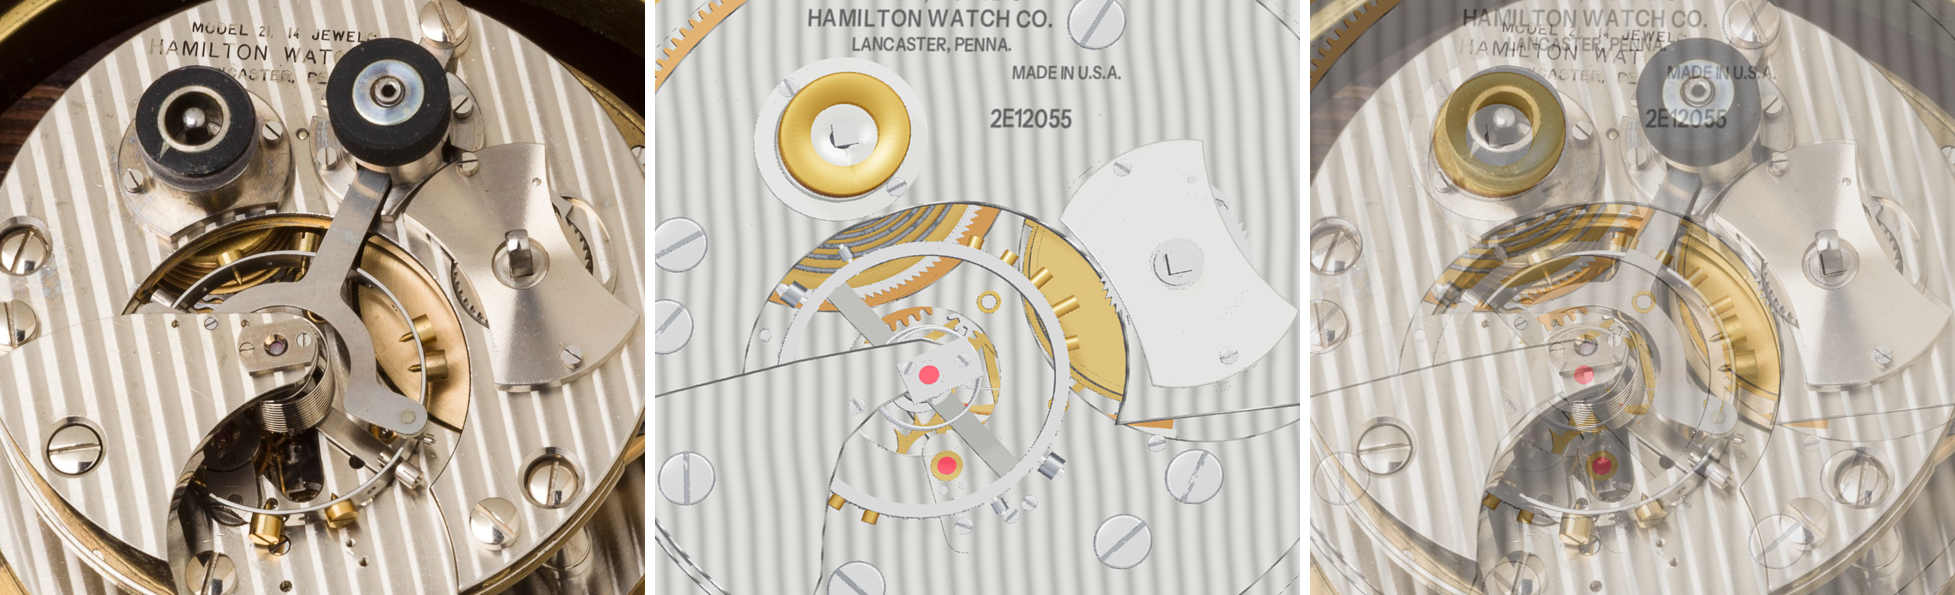
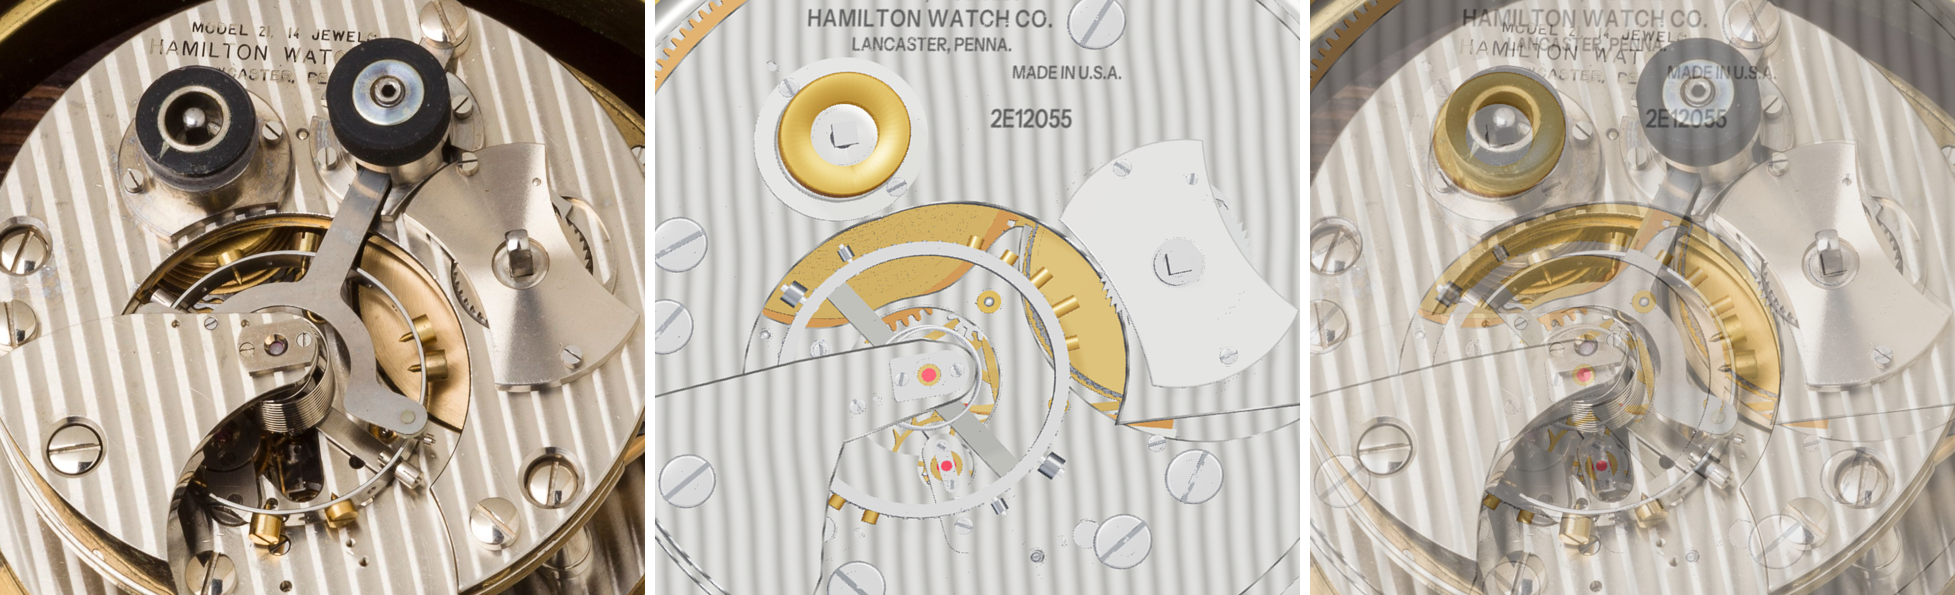
Mounting ring screws from the train side, as reassembly Op. 1 and Fig. 29 have them
The three mounting ring screws (42055) were drawn from the dial side, through
the ring's lip into the plate. The manual lays the pillar plate on the mounting
ring and then screws them in (reassembly Op. 1), and Fig. 29 draws them above
the plate; the top-view photographs show one on the plate at the rim at 6
o'clock, half under the train bridge. Now 42055-size screws on the plate's top
at 40.6 mm (100 deg as photographed; 210 and 340 deg estimated, clear of the
dial screws), through a clearance hole in the plate into a tab of the lip.
bom.json's relations follow. IDEAS.md: the wind indicator wheel's size is held
by its centre distance to the fusee arbor; the photographs' larger wheel is
perspective.

diff --git a/chronometer-working-model.html b/chronometer-working-model.html
@@ -1624,9 +1624,9 @@ function buildMovement(M){
   /* ---------- screw positions (x, z), worked out before the plates are cut: a clearance hole where a screw passes through a part (hC), a tapped hole where it holds (hT).
        42055 (pillar, bridge and mounting-ring screws) have heads r 2.9; ESCAP: the endstone caps' screws (20762) ---------- */
   const add=(a,b,k=1)=>[a[0]+b[0]*k,a[1]+b[1]*k],sub=(a,b)=>[a[0]-b[0],a[1]-b[1]],unit=a=>{const l=Math.hypot(...a);return[a[0]/l,a[1]/l];},ry=(a,[x,z])=>[x*Math.cos(a)+z*Math.sin(a),-x*Math.sin(a)+z*Math.cos(a)];
-  const eu=unit(sub(L.E,L.B)),lbu=unit(sub(L.F,L.B)),lbn=[-lbu[1],lbu[0]],LBm=add(L.B,sub(L.F,L.B),0.9),ESCAP=0.45,PSR=2.9,RSR=1.8;   /* RSR: the mounting ring's screws, on its narrow lip */
+  const eu=unit(sub(L.E,L.B)),lbu=unit(sub(L.F,L.B)),lbn=[-lbu[1],lbu[0]],LBm=add(L.B,sub(L.F,L.B),0.9),ESCAP=0.45,PSR=2.9;
   const S={ltb:[0.35,0.65].map(f=>add(L.T,sub(L.F,L.T),f)),pil:[...PILLARS.train,PILLARS.barrel],tb:[PILLARS.train[0],PILLARS.train[1],[-8.5,27.7]],bb:[PILLARS.barrel,PILLARS.train[2],[29.24,-12.28]],
-    ring:[90,210,330].map(a=>[42.0*Math.cos(a*D2R),42.0*Math.sin(a*D2R)]),eb:[4.3,6.6].map(f=>add(L.E,eu,f)),ebc:[2.1,-2.1].map(f=>add(L.E,eu,f)),elc:[2.1,-2.1].map(f=>add(L.E,eu,f)),
+    ring:[100,210,340].map(a=>[40.6*Math.cos(a*D2R),40.6*Math.sin(a*D2R)]),eb:[4.3,6.6].map(f=>add(L.E,eu,f)),ebc:[2.1,-2.1].map(f=>add(L.E,eu,f)),elc:[2.1,-2.1].map(f=>add(L.E,eu,f)),
     lb:[[20.5,20.0],[-5.3,26.2]],lbp:[[16.9,21.3],[-2.6,26.4]],blc:[1.9,-1.9].map(f=>add(L.B,lbu,f)),blk:(q=>add(L.B,ry(BETA,[q.x*ES,q.y*ES])))(ESC.D(-1.2,-0.35)),cock:[33.11,12.62]};   /* cock screw: 0.3 mm off its traced position (within the tracing's 0.4 mm), so its thread clears the foot's edge */
   /* lb: the balance lower bridge's screws (42055), put in from below through its upper tier into the train bridge: at the arm's end on the 3 o'clock side (outside every wheel, over the
      access hole in the pillar plate) and beside the train-blocking screw; lbp: its steady pins (tools/lower_bridge.py) */
@@ -1646,15 +1646,21 @@ function buildMovement(M){
      (manual Sec. VIII, Op. 15 note) clear of the centre wheel, the chain and the opening round the balance */
   const SPv=[L.Fu[0]+21.35*Math.cos(60*D2R),L.Fu[1]+21.35*Math.sin(60*D2R)];
   R.pillarPlate=mesh(pp,discGeo(PP_R,PP_T,[[...L.C,1.5],[...L.T,0.8],[...L.F,1.2],[...L.Fu,1.4],hC(...L.Ud,0.8),hC(...L.Mw,0.8),[...L.Ba,1.9],[...L.E,1.3],[...SPv,0.52],
-    ...S.ltb.map(q=>hT(...q,1.4)),...S.pil.map(q=>hC(...q,PSR)),...S.ring.map(q=>hT(...q,RSR)),...S.elc.map(q=>hT(...q,ESCAP)),...S.dial.map(q=>hC(...q,1.0)),[...S.lb[0],3.4]]),M.plate,0,y0,0);hn(pp,'42060');   /* the plate's parts-list line on its part, so its pins go with it */
+    ...S.ltb.map(q=>hT(...q,1.4)),...S.pil.map(q=>hC(...q,PSR)),...S.ring.map(q=>hC(...q,PSR)),...S.elc.map(q=>hT(...q,ESCAP)),...S.dial.map(q=>hC(...q,1.0)),[...S.lb[0],3.4]]),M.plate,0,y0,0);hn(pp,'42060');   /* the plate's parts-list line on its part, so its pins go with it */
   /* the last hole: access to the balance lower bridge's screw at 3 o'clock, for taking the bridge off without taking the movement down (RMG No. 4E019), under the dial */
   /* lower bushings and settings in the pillar plate (parts list, Fig. 110): centre, fusee, barrel; escape lower jewel. Proud 0.1 on the train side */
   const bushR=(p,x,z,y1,y2,ro,ri,mat)=>mesh(p,ringGeo(ro,ri,Math.abs(y2-y1)),mat||M.brass2,x,(y1+y2)/2,z);
   hn(bushR(pp,...L.C,y0-0.1,0,1.5,0.52),'42165');hn(bushR(pp,...L.Fu,y0-0.1,0,1.4,0.58),'42164.fl');hn(bushR(pp,...L.Ba,y0-0.1,0,1.9,1.43),'42164.bl');hn(bushR(pp,...L.E,y0-0.1,0,1.3,0.95,M.gilt),'42162.el');hn(mesh(pp,stoneGeo(0.95,0.22,0.5,'olive'),M.ruby,L.E[0],-0.25,L.E[1]),'J.el');   /* escape lower setting (42162) with its olive-hole jewel, flush with the plate's dial face under the endstone */
-  /* mounting ring (42057, Fig. 110) round the plate's edge, with a lip under its dial side held by three screws (42055) from the dial side; section and screw positions estimated. It starts 0.02 outside the plate's edge, clear of the plate's polygon (at PP_R-0.1 the plate's edge ran inside it and showed in a section as a hollow) */
-  R.flange=hn(mesh(pp,new THREE.LatheGeometry([V2(PP_R+0.02,y0),V2(47,y0),V2(47,-0.01),V2(PP_R+0.02,-0.01),V2(PP_R+0.02,y0)],160),M.plate),'42057');hn(mesh(pp,discGeo(47,1.0,[[0,0,40.2],...S.ring.map(q=>hC(...q,RSR))]),M.plate,0,0.01,0),'42057',{sub:1});
+  /* mounting ring (42057, Fig. 110) round the plate's edge, with a lip under its dial side. Three screws (42055) hold the plate to it from the train side: the plate is laid
+     on the ring and the screws put in (reassembly Op. 1; Fig. 29 draws them above the plate), and the top-view photographs show one on the plate at the rim at 6 o'clock,
+     half under the train bridge; the others under the bridges, at 210 and 340 deg, estimated. The lip has a tab inward under each, tapped for it, clear of the dial feet.
+     Section and tabs estimated. It starts 0.02 outside the plate's edge, clear of the plate's polygon (at PP_R-0.1 the plate's edge ran inside it and showed in a section as a hollow) */
+  R.flange=hn(mesh(pp,new THREE.LatheGeometry([V2(PP_R+0.02,y0),V2(47,y0),V2(47,-0.01),V2(PP_R+0.02,-0.01),V2(PP_R+0.02,y0)],160),M.plate),'42057');
+  { const RA=[100,210,340].map(a=>a*D2R),dA=a=>Math.min(...RA.map(b=>Math.abs(Math.atan2(Math.sin(a-b),Math.cos(a-b))))),rin=a=>{const t=clamp((dA(a)-0.07)/0.05,0,1);return lerp(38.4,40.2,smooth(t));};
+    const inner=[...Array(360).keys()].map(k=>{const a=k/360*TAU;return[rin(a)*Math.cos(a),rin(a)*Math.sin(a)];}),outer=[...Array(160).keys()].map(k=>{const a=k/160*TAU;return[47*Math.cos(a),47*Math.sin(a)];});
+    hn(mesh(pp,polyGeo(outer,1.0,[{pts:inner},...S.ring.map(q=>hT(...q,PSR))]),M.plate,0,0.01,0),'42057',{sub:1}); }   /* the lip, with its tabs */
+  for(const q of S.ring)hn(screw(pp,...q,y0,PSR,1.6,PP_T+0.95),'42055.ring');   /* through the plate into the lip's tab */
   { const rg=new THREE.Group();rg.rotation.x=Math.PI;pp.add(rg);
-    for(const q of S.ring)hn(screw(rg,q[0],-q[1],-1.01,RSR,1.2,1.01+3.86-0.4),'42055.ring');   /* through the lip and into the plate */
     /* the pillars' screws (42055) from the dial side, through the plate into the pillars (Fig. 110) */
     S.pil.forEach((q,i)=>hn(screw(rg,q[0],-q[1],0,PSR,1.6,3.86+3.2),i<3?'42055.pil':'42055.pilb'));
     /* escape lower endstone cap (42159) with its jewel and two screws (20762), on the dial side over the escape lower setting (Fig. 110) */

diff --git a/marine-chronometer-source/chronometer-working-model/dist/chronometer-working-model.html b/marine-chronometer-source/chronometer-working-model/dist/chronometer-working-model.html
@@ -1624,9 +1624,9 @@ function buildMovement(M){
   /* ---------- screw positions (x, z), worked out before the plates are cut: a clearance hole where a screw passes through a part (hC), a tapped hole where it holds (hT).
        42055 (pillar, bridge and mounting-ring screws) have heads r 2.9; ESCAP: the endstone caps' screws (20762) ---------- */
   const add=(a,b,k=1)=>[a[0]+b[0]*k,a[1]+b[1]*k],sub=(a,b)=>[a[0]-b[0],a[1]-b[1]],unit=a=>{const l=Math.hypot(...a);return[a[0]/l,a[1]/l];},ry=(a,[x,z])=>[x*Math.cos(a)+z*Math.sin(a),-x*Math.sin(a)+z*Math.cos(a)];
-  const eu=unit(sub(L.E,L.B)),lbu=unit(sub(L.F,L.B)),lbn=[-lbu[1],lbu[0]],LBm=add(L.B,sub(L.F,L.B),0.9),ESCAP=0.45,PSR=2.9,RSR=1.8;   /* RSR: the mounting ring's screws, on its narrow lip */
+  const eu=unit(sub(L.E,L.B)),lbu=unit(sub(L.F,L.B)),lbn=[-lbu[1],lbu[0]],LBm=add(L.B,sub(L.F,L.B),0.9),ESCAP=0.45,PSR=2.9;
   const S={ltb:[0.35,0.65].map(f=>add(L.T,sub(L.F,L.T),f)),pil:[...PILLARS.train,PILLARS.barrel],tb:[PILLARS.train[0],PILLARS.train[1],[-8.5,27.7]],bb:[PILLARS.barrel,PILLARS.train[2],[29.24,-12.28]],
-    ring:[90,210,330].map(a=>[42.0*Math.cos(a*D2R),42.0*Math.sin(a*D2R)]),eb:[4.3,6.6].map(f=>add(L.E,eu,f)),ebc:[2.1,-2.1].map(f=>add(L.E,eu,f)),elc:[2.1,-2.1].map(f=>add(L.E,eu,f)),
+    ring:[100,210,340].map(a=>[40.6*Math.cos(a*D2R),40.6*Math.sin(a*D2R)]),eb:[4.3,6.6].map(f=>add(L.E,eu,f)),ebc:[2.1,-2.1].map(f=>add(L.E,eu,f)),elc:[2.1,-2.1].map(f=>add(L.E,eu,f)),
     lb:[[20.5,20.0],[-5.3,26.2]],lbp:[[16.9,21.3],[-2.6,26.4]],blc:[1.9,-1.9].map(f=>add(L.B,lbu,f)),blk:(q=>add(L.B,ry(BETA,[q.x*ES,q.y*ES])))(ESC.D(-1.2,-0.35)),cock:[33.11,12.62]};   /* cock screw: 0.3 mm off its traced position (within the tracing's 0.4 mm), so its thread clears the foot's edge */
   /* lb: the balance lower bridge's screws (42055), put in from below through its upper tier into the train bridge: at the arm's end on the 3 o'clock side (outside every wheel, over the
      access hole in the pillar plate) and beside the train-blocking screw; lbp: its steady pins (tools/lower_bridge.py) */
@@ -1646,15 +1646,21 @@ function buildMovement(M){
      (manual Sec. VIII, Op. 15 note) clear of the centre wheel, the chain and the opening round the balance */
   const SPv=[L.Fu[0]+21.35*Math.cos(60*D2R),L.Fu[1]+21.35*Math.sin(60*D2R)];
   R.pillarPlate=mesh(pp,discGeo(PP_R,PP_T,[[...L.C,1.5],[...L.T,0.8],[...L.F,1.2],[...L.Fu,1.4],hC(...L.Ud,0.8),hC(...L.Mw,0.8),[...L.Ba,1.9],[...L.E,1.3],[...SPv,0.52],
-    ...S.ltb.map(q=>hT(...q,1.4)),...S.pil.map(q=>hC(...q,PSR)),...S.ring.map(q=>hT(...q,RSR)),...S.elc.map(q=>hT(...q,ESCAP)),...S.dial.map(q=>hC(...q,1.0)),[...S.lb[0],3.4]]),M.plate,0,y0,0);hn(pp,'42060');   /* the plate's parts-list line on its part, so its pins go with it */
+    ...S.ltb.map(q=>hT(...q,1.4)),...S.pil.map(q=>hC(...q,PSR)),...S.ring.map(q=>hC(...q,PSR)),...S.elc.map(q=>hT(...q,ESCAP)),...S.dial.map(q=>hC(...q,1.0)),[...S.lb[0],3.4]]),M.plate,0,y0,0);hn(pp,'42060');   /* the plate's parts-list line on its part, so its pins go with it */
   /* the last hole: access to the balance lower bridge's screw at 3 o'clock, for taking the bridge off without taking the movement down (RMG No. 4E019), under the dial */
   /* lower bushings and settings in the pillar plate (parts list, Fig. 110): centre, fusee, barrel; escape lower jewel. Proud 0.1 on the train side */
   const bushR=(p,x,z,y1,y2,ro,ri,mat)=>mesh(p,ringGeo(ro,ri,Math.abs(y2-y1)),mat||M.brass2,x,(y1+y2)/2,z);
   hn(bushR(pp,...L.C,y0-0.1,0,1.5,0.52),'42165');hn(bushR(pp,...L.Fu,y0-0.1,0,1.4,0.58),'42164.fl');hn(bushR(pp,...L.Ba,y0-0.1,0,1.9,1.43),'42164.bl');hn(bushR(pp,...L.E,y0-0.1,0,1.3,0.95,M.gilt),'42162.el');hn(mesh(pp,stoneGeo(0.95,0.22,0.5,'olive'),M.ruby,L.E[0],-0.25,L.E[1]),'J.el');   /* escape lower setting (42162) with its olive-hole jewel, flush with the plate's dial face under the endstone */
-  /* mounting ring (42057, Fig. 110) round the plate's edge, with a lip under its dial side held by three screws (42055) from the dial side; section and screw positions estimated. It starts 0.02 outside the plate's edge, clear of the plate's polygon (at PP_R-0.1 the plate's edge ran inside it and showed in a section as a hollow) */
-  R.flange=hn(mesh(pp,new THREE.LatheGeometry([V2(PP_R+0.02,y0),V2(47,y0),V2(47,-0.01),V2(PP_R+0.02,-0.01),V2(PP_R+0.02,y0)],160),M.plate),'42057');hn(mesh(pp,discGeo(47,1.0,[[0,0,40.2],...S.ring.map(q=>hC(...q,RSR))]),M.plate,0,0.01,0),'42057',{sub:1});
+  /* mounting ring (42057, Fig. 110) round the plate's edge, with a lip under its dial side. Three screws (42055) hold the plate to it from the train side: the plate is laid
+     on the ring and the screws put in (reassembly Op. 1; Fig. 29 draws them above the plate), and the top-view photographs show one on the plate at the rim at 6 o'clock,
+     half under the train bridge; the others under the bridges, at 210 and 340 deg, estimated. The lip has a tab inward under each, tapped for it, clear of the dial feet.
+     Section and tabs estimated. It starts 0.02 outside the plate's edge, clear of the plate's polygon (at PP_R-0.1 the plate's edge ran inside it and showed in a section as a hollow) */
+  R.flange=hn(mesh(pp,new THREE.LatheGeometry([V2(PP_R+0.02,y0),V2(47,y0),V2(47,-0.01),V2(PP_R+0.02,-0.01),V2(PP_R+0.02,y0)],160),M.plate),'42057');
+  { const RA=[100,210,340].map(a=>a*D2R),dA=a=>Math.min(...RA.map(b=>Math.abs(Math.atan2(Math.sin(a-b),Math.cos(a-b))))),rin=a=>{const t=clamp((dA(a)-0.07)/0.05,0,1);return lerp(38.4,40.2,smooth(t));};
+    const inner=[...Array(360).keys()].map(k=>{const a=k/360*TAU;return[rin(a)*Math.cos(a),rin(a)*Math.sin(a)];}),outer=[...Array(160).keys()].map(k=>{const a=k/160*TAU;return[47*Math.cos(a),47*Math.sin(a)];});
+    hn(mesh(pp,polyGeo(outer,1.0,[{pts:inner},...S.ring.map(q=>hT(...q,PSR))]),M.plate,0,0.01,0),'42057',{sub:1}); }   /* the lip, with its tabs */
+  for(const q of S.ring)hn(screw(pp,...q,y0,PSR,1.6,PP_T+0.95),'42055.ring');   /* through the plate into the lip's tab */
   { const rg=new THREE.Group();rg.rotation.x=Math.PI;pp.add(rg);
-    for(const q of S.ring)hn(screw(rg,q[0],-q[1],-1.01,RSR,1.2,1.01+3.86-0.4),'42055.ring');   /* through the lip and into the plate */
     /* the pillars' screws (42055) from the dial side, through the plate into the pillars (Fig. 110) */
     S.pil.forEach((q,i)=>hn(screw(rg,q[0],-q[1],0,PSR,1.6,3.86+3.2),i<3?'42055.pil':'42055.pilb'));
     /* escape lower endstone cap (42159) with its jewel and two screws (20762), on the dial side over the escape lower setting (Fig. 110) */

diff --git a/site/index.html b/site/index.html
@@ -1630,9 +1630,9 @@ function buildMovement(M){
   /* ---------- screw positions (x, z), worked out before the plates are cut: a clearance hole where a screw passes through a part (hC), a tapped hole where it holds (hT).
        42055 (pillar, bridge and mounting-ring screws) have heads r 2.9; ESCAP: the endstone caps' screws (20762) ---------- */
   const add=(a,b,k=1)=>[a[0]+b[0]*k,a[1]+b[1]*k],sub=(a,b)=>[a[0]-b[0],a[1]-b[1]],unit=a=>{const l=Math.hypot(...a);return[a[0]/l,a[1]/l];},ry=(a,[x,z])=>[x*Math.cos(a)+z*Math.sin(a),-x*Math.sin(a)+z*Math.cos(a)];
-  const eu=unit(sub(L.E,L.B)),lbu=unit(sub(L.F,L.B)),lbn=[-lbu[1],lbu[0]],LBm=add(L.B,sub(L.F,L.B),0.9),ESCAP=0.45,PSR=2.9,RSR=1.8;   /* RSR: the mounting ring's screws, on its narrow lip */
+  const eu=unit(sub(L.E,L.B)),lbu=unit(sub(L.F,L.B)),lbn=[-lbu[1],lbu[0]],LBm=add(L.B,sub(L.F,L.B),0.9),ESCAP=0.45,PSR=2.9;
   const S={ltb:[0.35,0.65].map(f=>add(L.T,sub(L.F,L.T),f)),pil:[...PILLARS.train,PILLARS.barrel],tb:[PILLARS.train[0],PILLARS.train[1],[-8.5,27.7]],bb:[PILLARS.barrel,PILLARS.train[2],[29.24,-12.28]],
-    ring:[90,210,330].map(a=>[42.0*Math.cos(a*D2R),42.0*Math.sin(a*D2R)]),eb:[4.3,6.6].map(f=>add(L.E,eu,f)),ebc:[2.1,-2.1].map(f=>add(L.E,eu,f)),elc:[2.1,-2.1].map(f=>add(L.E,eu,f)),
+    ring:[100,210,340].map(a=>[40.6*Math.cos(a*D2R),40.6*Math.sin(a*D2R)]),eb:[4.3,6.6].map(f=>add(L.E,eu,f)),ebc:[2.1,-2.1].map(f=>add(L.E,eu,f)),elc:[2.1,-2.1].map(f=>add(L.E,eu,f)),
     lb:[[20.5,20.0],[-5.3,26.2]],lbp:[[16.9,21.3],[-2.6,26.4]],blc:[1.9,-1.9].map(f=>add(L.B,lbu,f)),blk:(q=>add(L.B,ry(BETA,[q.x*ES,q.y*ES])))(ESC.D(-1.2,-0.35)),cock:[33.11,12.62]};   /* cock screw: 0.3 mm off its traced position (within the tracing's 0.4 mm), so its thread clears the foot's edge */
   /* lb: the balance lower bridge's screws (42055), put in from below through its upper tier into the train bridge: at the arm's end on the 3 o'clock side (outside every wheel, over the
      access hole in the pillar plate) and beside the train-blocking screw; lbp: its steady pins (tools/lower_bridge.py) */
@@ -1652,15 +1652,21 @@ function buildMovement(M){
      (manual Sec. VIII, Op. 15 note) clear of the centre wheel, the chain and the opening round the balance */
   const SPv=[L.Fu[0]+21.35*Math.cos(60*D2R),L.Fu[1]+21.35*Math.sin(60*D2R)];
   R.pillarPlate=mesh(pp,discGeo(PP_R,PP_T,[[...L.C,1.5],[...L.T,0.8],[...L.F,1.2],[...L.Fu,1.4],hC(...L.Ud,0.8),hC(...L.Mw,0.8),[...L.Ba,1.9],[...L.E,1.3],[...SPv,0.52],
-    ...S.ltb.map(q=>hT(...q,1.4)),...S.pil.map(q=>hC(...q,PSR)),...S.ring.map(q=>hT(...q,RSR)),...S.elc.map(q=>hT(...q,ESCAP)),...S.dial.map(q=>hC(...q,1.0)),[...S.lb[0],3.4]]),M.plate,0,y0,0);hn(pp,'42060');   /* the plate's parts-list line on its part, so its pins go with it */
+    ...S.ltb.map(q=>hT(...q,1.4)),...S.pil.map(q=>hC(...q,PSR)),...S.ring.map(q=>hC(...q,PSR)),...S.elc.map(q=>hT(...q,ESCAP)),...S.dial.map(q=>hC(...q,1.0)),[...S.lb[0],3.4]]),M.plate,0,y0,0);hn(pp,'42060');   /* the plate's parts-list line on its part, so its pins go with it */
   /* the last hole: access to the balance lower bridge's screw at 3 o'clock, for taking the bridge off without taking the movement down (RMG No. 4E019), under the dial */
   /* lower bushings and settings in the pillar plate (parts list, Fig. 110): centre, fusee, barrel; escape lower jewel. Proud 0.1 on the train side */
   const bushR=(p,x,z,y1,y2,ro,ri,mat)=>mesh(p,ringGeo(ro,ri,Math.abs(y2-y1)),mat||M.brass2,x,(y1+y2)/2,z);
   hn(bushR(pp,...L.C,y0-0.1,0,1.5,0.52),'42165');hn(bushR(pp,...L.Fu,y0-0.1,0,1.4,0.58),'42164.fl');hn(bushR(pp,...L.Ba,y0-0.1,0,1.9,1.43),'42164.bl');hn(bushR(pp,...L.E,y0-0.1,0,1.3,0.95,M.gilt),'42162.el');hn(mesh(pp,stoneGeo(0.95,0.22,0.5,'olive'),M.ruby,L.E[0],-0.25,L.E[1]),'J.el');   /* escape lower setting (42162) with its olive-hole jewel, flush with the plate's dial face under the endstone */
-  /* mounting ring (42057, Fig. 110) round the plate's edge, with a lip under its dial side held by three screws (42055) from the dial side; section and screw positions estimated. It starts 0.02 outside the plate's edge, clear of the plate's polygon (at PP_R-0.1 the plate's edge ran inside it and showed in a section as a hollow) */
-  R.flange=hn(mesh(pp,new THREE.LatheGeometry([V2(PP_R+0.02,y0),V2(47,y0),V2(47,-0.01),V2(PP_R+0.02,-0.01),V2(PP_R+0.02,y0)],160),M.plate),'42057');hn(mesh(pp,discGeo(47,1.0,[[0,0,40.2],...S.ring.map(q=>hC(...q,RSR))]),M.plate,0,0.01,0),'42057',{sub:1});
+  /* mounting ring (42057, Fig. 110) round the plate's edge, with a lip under its dial side. Three screws (42055) hold the plate to it from the train side: the plate is laid
+     on the ring and the screws put in (reassembly Op. 1; Fig. 29 draws them above the plate), and the top-view photographs show one on the plate at the rim at 6 o'clock,
+     half under the train bridge; the others under the bridges, at 210 and 340 deg, estimated. The lip has a tab inward under each, tapped for it, clear of the dial feet.
+     Section and tabs estimated. It starts 0.02 outside the plate's edge, clear of the plate's polygon (at PP_R-0.1 the plate's edge ran inside it and showed in a section as a hollow) */
+  R.flange=hn(mesh(pp,new THREE.LatheGeometry([V2(PP_R+0.02,y0),V2(47,y0),V2(47,-0.01),V2(PP_R+0.02,-0.01),V2(PP_R+0.02,y0)],160),M.plate),'42057');
+  { const RA=[100,210,340].map(a=>a*D2R),dA=a=>Math.min(...RA.map(b=>Math.abs(Math.atan2(Math.sin(a-b),Math.cos(a-b))))),rin=a=>{const t=clamp((dA(a)-0.07)/0.05,0,1);return lerp(38.4,40.2,smooth(t));};
+    const inner=[...Array(360).keys()].map(k=>{const a=k/360*TAU;return[rin(a)*Math.cos(a),rin(a)*Math.sin(a)];}),outer=[...Array(160).keys()].map(k=>{const a=k/160*TAU;return[47*Math.cos(a),47*Math.sin(a)];});
+    hn(mesh(pp,polyGeo(outer,1.0,[{pts:inner},...S.ring.map(q=>hT(...q,PSR))]),M.plate,0,0.01,0),'42057',{sub:1}); }   /* the lip, with its tabs */
+  for(const q of S.ring)hn(screw(pp,...q,y0,PSR,1.6,PP_T+0.95),'42055.ring');   /* through the plate into the lip's tab */
   { const rg=new THREE.Group();rg.rotation.x=Math.PI;pp.add(rg);
-    for(const q of S.ring)hn(screw(rg,q[0],-q[1],-1.01,RSR,1.2,1.01+3.86-0.4),'42055.ring');   /* through the lip and into the plate */
     /* the pillars' screws (42055) from the dial side, through the plate into the pillars (Fig. 110) */
     S.pil.forEach((q,i)=>hn(screw(rg,q[0],-q[1],0,PSR,1.6,3.86+3.2),i<3?'42055.pil':'42055.pilb'));
     /* escape lower endstone cap (42159) with its jewel and two screws (20762), on the dial side over the escape lower setting (Fig. 110) */

diff --git a/marine-chronometer-source/chronometer-working-model/js/movement.js b/marine-chronometer-source/chronometer-working-model/js/movement.js
@@ -183,9 +183,9 @@ function buildMovement(M){
   /* ---------- screw positions (x, z), worked out before the plates are cut: a clearance hole where a screw passes through a part (hC), a tapped hole where it holds (hT).
        42055 (pillar, bridge and mounting-ring screws) have heads r 2.9; ESCAP: the endstone caps' screws (20762) ---------- */
   const add=(a,b,k=1)=>[a[0]+b[0]*k,a[1]+b[1]*k],sub=(a,b)=>[a[0]-b[0],a[1]-b[1]],unit=a=>{const l=Math.hypot(...a);return[a[0]/l,a[1]/l];},ry=(a,[x,z])=>[x*Math.cos(a)+z*Math.sin(a),-x*Math.sin(a)+z*Math.cos(a)];
-  const eu=unit(sub(L.E,L.B)),lbu=unit(sub(L.F,L.B)),lbn=[-lbu[1],lbu[0]],LBm=add(L.B,sub(L.F,L.B),0.9),ESCAP=0.45,PSR=2.9,RSR=1.8;   /* RSR: the mounting ring's screws, on its narrow lip */
+  const eu=unit(sub(L.E,L.B)),lbu=unit(sub(L.F,L.B)),lbn=[-lbu[1],lbu[0]],LBm=add(L.B,sub(L.F,L.B),0.9),ESCAP=0.45,PSR=2.9;
   const S={ltb:[0.35,0.65].map(f=>add(L.T,sub(L.F,L.T),f)),pil:[...PILLARS.train,PILLARS.barrel],tb:[PILLARS.train[0],PILLARS.train[1],[-8.5,27.7]],bb:[PILLARS.barrel,PILLARS.train[2],[29.24,-12.28]],
-    ring:[90,210,330].map(a=>[42.0*Math.cos(a*D2R),42.0*Math.sin(a*D2R)]),eb:[4.3,6.6].map(f=>add(L.E,eu,f)),ebc:[2.1,-2.1].map(f=>add(L.E,eu,f)),elc:[2.1,-2.1].map(f=>add(L.E,eu,f)),
+    ring:[100,210,340].map(a=>[40.6*Math.cos(a*D2R),40.6*Math.sin(a*D2R)]),eb:[4.3,6.6].map(f=>add(L.E,eu,f)),ebc:[2.1,-2.1].map(f=>add(L.E,eu,f)),elc:[2.1,-2.1].map(f=>add(L.E,eu,f)),
     lb:[[20.5,20.0],[-5.3,26.2]],lbp:[[16.9,21.3],[-2.6,26.4]],blc:[1.9,-1.9].map(f=>add(L.B,lbu,f)),blk:(q=>add(L.B,ry(BETA,[q.x*ES,q.y*ES])))(ESC.D(-1.2,-0.35)),cock:[33.11,12.62]};   /* cock screw: 0.3 mm off its traced position (within the tracing's 0.4 mm), so its thread clears the foot's edge */
   /* lb: the balance lower bridge's screws (42055), put in from below through its upper tier into the train bridge: at the arm's end on the 3 o'clock side (outside every wheel, over the
      access hole in the pillar plate) and beside the train-blocking screw; lbp: its steady pins (tools/lower_bridge.py) */
@@ -205,15 +205,21 @@ function buildMovement(M){
      (manual Sec. VIII, Op. 15 note) clear of the centre wheel, the chain and the opening round the balance */
   const SPv=[L.Fu[0]+21.35*Math.cos(60*D2R),L.Fu[1]+21.35*Math.sin(60*D2R)];
   R.pillarPlate=mesh(pp,discGeo(PP_R,PP_T,[[...L.C,1.5],[...L.T,0.8],[...L.F,1.2],[...L.Fu,1.4],hC(...L.Ud,0.8),hC(...L.Mw,0.8),[...L.Ba,1.9],[...L.E,1.3],[...SPv,0.52],
-    ...S.ltb.map(q=>hT(...q,1.4)),...S.pil.map(q=>hC(...q,PSR)),...S.ring.map(q=>hT(...q,RSR)),...S.elc.map(q=>hT(...q,ESCAP)),...S.dial.map(q=>hC(...q,1.0)),[...S.lb[0],3.4]]),M.plate,0,y0,0);hn(pp,'42060');   /* the plate's parts-list line on its part, so its pins go with it */
+    ...S.ltb.map(q=>hT(...q,1.4)),...S.pil.map(q=>hC(...q,PSR)),...S.ring.map(q=>hC(...q,PSR)),...S.elc.map(q=>hT(...q,ESCAP)),...S.dial.map(q=>hC(...q,1.0)),[...S.lb[0],3.4]]),M.plate,0,y0,0);hn(pp,'42060');   /* the plate's parts-list line on its part, so its pins go with it */
   /* the last hole: access to the balance lower bridge's screw at 3 o'clock, for taking the bridge off without taking the movement down (RMG No. 4E019), under the dial */
   /* lower bushings and settings in the pillar plate (parts list, Fig. 110): centre, fusee, barrel; escape lower jewel. Proud 0.1 on the train side */
   const bushR=(p,x,z,y1,y2,ro,ri,mat)=>mesh(p,ringGeo(ro,ri,Math.abs(y2-y1)),mat||M.brass2,x,(y1+y2)/2,z);
   hn(bushR(pp,...L.C,y0-0.1,0,1.5,0.52),'42165');hn(bushR(pp,...L.Fu,y0-0.1,0,1.4,0.58),'42164.fl');hn(bushR(pp,...L.Ba,y0-0.1,0,1.9,1.43),'42164.bl');hn(bushR(pp,...L.E,y0-0.1,0,1.3,0.95,M.gilt),'42162.el');hn(mesh(pp,stoneGeo(0.95,0.22,0.5,'olive'),M.ruby,L.E[0],-0.25,L.E[1]),'J.el');   /* escape lower setting (42162) with its olive-hole jewel, flush with the plate's dial face under the endstone */
-  /* mounting ring (42057, Fig. 110) round the plate's edge, with a lip under its dial side held by three screws (42055) from the dial side; section and screw positions estimated. It starts 0.02 outside the plate's edge, clear of the plate's polygon (at PP_R-0.1 the plate's edge ran inside it and showed in a section as a hollow) */
-  R.flange=hn(mesh(pp,new THREE.LatheGeometry([V2(PP_R+0.02,y0),V2(47,y0),V2(47,-0.01),V2(PP_R+0.02,-0.01),V2(PP_R+0.02,y0)],160),M.plate),'42057');hn(mesh(pp,discGeo(47,1.0,[[0,0,40.2],...S.ring.map(q=>hC(...q,RSR))]),M.plate,0,0.01,0),'42057',{sub:1});
+  /* mounting ring (42057, Fig. 110) round the plate's edge, with a lip under its dial side. Three screws (42055) hold the plate to it from the train side: the plate is laid
+     on the ring and the screws put in (reassembly Op. 1; Fig. 29 draws them above the plate), and the top-view photographs show one on the plate at the rim at 6 o'clock,
+     half under the train bridge; the others under the bridges, at 210 and 340 deg, estimated. The lip has a tab inward under each, tapped for it, clear of the dial feet.
+     Section and tabs estimated. It starts 0.02 outside the plate's edge, clear of the plate's polygon (at PP_R-0.1 the plate's edge ran inside it and showed in a section as a hollow) */
+  R.flange=hn(mesh(pp,new THREE.LatheGeometry([V2(PP_R+0.02,y0),V2(47,y0),V2(47,-0.01),V2(PP_R+0.02,-0.01),V2(PP_R+0.02,y0)],160),M.plate),'42057');
+  { const RA=[100,210,340].map(a=>a*D2R),dA=a=>Math.min(...RA.map(b=>Math.abs(Math.atan2(Math.sin(a-b),Math.cos(a-b))))),rin=a=>{const t=clamp((dA(a)-0.07)/0.05,0,1);return lerp(38.4,40.2,smooth(t));};
+    const inner=[...Array(360).keys()].map(k=>{const a=k/360*TAU;return[rin(a)*Math.cos(a),rin(a)*Math.sin(a)];}),outer=[...Array(160).keys()].map(k=>{const a=k/160*TAU;return[47*Math.cos(a),47*Math.sin(a)];});
+    hn(mesh(pp,polyGeo(outer,1.0,[{pts:inner},...S.ring.map(q=>hT(...q,PSR))]),M.plate,0,0.01,0),'42057',{sub:1}); }   /* the lip, with its tabs */
+  for(const q of S.ring)hn(screw(pp,...q,y0,PSR,1.6,PP_T+0.95),'42055.ring');   /* through the plate into the lip's tab */
   { const rg=new THREE.Group();rg.rotation.x=Math.PI;pp.add(rg);
-    for(const q of S.ring)hn(screw(rg,q[0],-q[1],-1.01,RSR,1.2,1.01+3.86-0.4),'42055.ring');   /* through the lip and into the plate */
     /* the pillars' screws (42055) from the dial side, through the plate into the pillars (Fig. 110) */
     S.pil.forEach((q,i)=>hn(screw(rg,q[0],-q[1],0,PSR,1.6,3.86+3.2),i<3?'42055.pil':'42055.pilb'));
     /* escape lower endstone cap (42159) with its jewel and two screws (20762), on the dial side over the escape lower setting (Fig. 110) */

diff --git a/marine-chronometer-source/chronometer-working-model/README.md b/marine-chronometer-source/chronometer-working-model/README.md
@@ -477,7 +477,7 @@ and the thread pitches are the model's. Things to know before changing it:
   - The spring is a torsion coil round the shoulder, with one leg on the stop screw and one on a pin in the plate.
   - The case bottom is 1 mm thick (the rest of the bowl is a sheet).
 - The screws' shanks: a thread of half the head's diameter (0.8 mm for the cock screw, 0.07 mm for the trip-spring screw in the bracket's thin leg), drawn as turned rings, and each one's length. The parts list gives the screws, not their threads or lengths. The cock screw sits 0.3 mm off its traced position (within the tracing's 0.4 mm) so its thread clears the foot's edge.
-- The pillar screws from the dial side (four), the mounting ring's lip and its three screws (on 42 mm, at 90°, 210° and 330°), the dial screws (one into each foot), and the posts of the minute and wind indicator wheels with their screws from the train side. The parts list and Figs. 107 and 110 give the parts, not their sizes or positions.
+- The pillar screws from the dial side (four), the mounting ring's lip, with a tab under each of its three screws, and the screws' places other than the one at 6 o'clock (the screws go in from the train side, through the plate into the ring, as reassembly Op. 1 and Fig. 29 have them; the top-view photographs show the 6 o'clock one on the plate at the rim, half under the train bridge: 40.6 mm out at 100°, the others at 210° and 340°), the dial screws (one into each foot), and the posts of the minute and wind indicator wheels with their screws from the train side. The parts list and Figs. 107 and 110 give the parts, not their sizes or positions.
 - The endstone caps (escape upper and lower, balance lower): a steel plate 1.3 mm wide over the setting, its screws 2.1 mm (1.9 mm on the balance lower bridge) either side of the arbor.
 - The balance's hub, cap and hold-down screws (Fig. 4): a flange 0.6 mm thick under the arm, a boss through it, a cap 0.35 mm thick, screws 1.7 mm from the staff. The balance's moment of inertia counts them in place of the old hub.
 - The train-blocking screw (Sec. II, Fig. 110): its place on a lobe of the balance lower bridge, 3.5 mm from the fourth arbor on the 6 o'clock side, clear of the third wheel and the escape wheel; its size (head 1.7 mm, thread 0.84 mm, dog point 0.5 mm) and 5.6 mm travel; the lobe's column (r 1.9, bored r 0.95 down to the seat 0.6 mm into the bridge's top: the section gives the arrangement, not the sizes) and the access hole in the train bridge (r 0.72).

diff --git a/IDEAS.md b/IDEAS.md
@@ -211,7 +211,7 @@ One train-bridge screw, at (−8.5, 27.7), has no pillar under it ([movement.js:
 
 ### 1.8 Wheel teeth (M–L)
 *The train's stack is done: third, centre and fourth wheels from the plate up, with the pinions on the sides and the five spokes that Figs. 13, 29 and 110 give, and the motion work's solid minute and hour wheels and five-spoked wind indicator wheel from photographs of a Model 21's dial side. Profiles and counts are still open.* `22e3984`
-- **Open question: the wind indicator wheel's size.** The dial-side photographs show it larger than the model's r 12.4 (from Fig. 107), about r 15–17 mm. A larger wheel would change its count or module, and the scale's ratio with them. It is left as it is until a measurement settles it.
+- **The wind indicator wheel's size** (settled). The dial-side photographs seemed to show it larger than the model's r 12.4, about r 15–17 mm, and Fig. 13 draws it large. But it meshes the pinion on the fusee arbor, and its centre under the 12 (Fig. 107) lies 12.3 mm from the fusee's: that centre distance holds its pitch radius near 11.4 mm, as the model has it. The photographs' size is perspective.
 - **Profiles:** `gearGeo` draws a generic trapezoidal tooth. Clock and chronometer trains use cycloidal teeth and pinion leaves with rounded addenda (the BS 978 Part 2 proportions are the usual reference). With true profiles, the close-ups would show real rolling contact, and `dyn.py` could check tooth-to-leaf clearance through a whole tooth pitch, not just in phase.
 - **Tooth counts:** the centre, third and fourth counts are estimates. Count teeth on the highest-resolution photographs (the fourth wheel and the centre wheel's outer rim are often visible), or ask on chronometerbook.com. Update `TRAIN` and every place the counts appear as text (see [7.2](#72-derive-every-train-number-from-train)).
 
